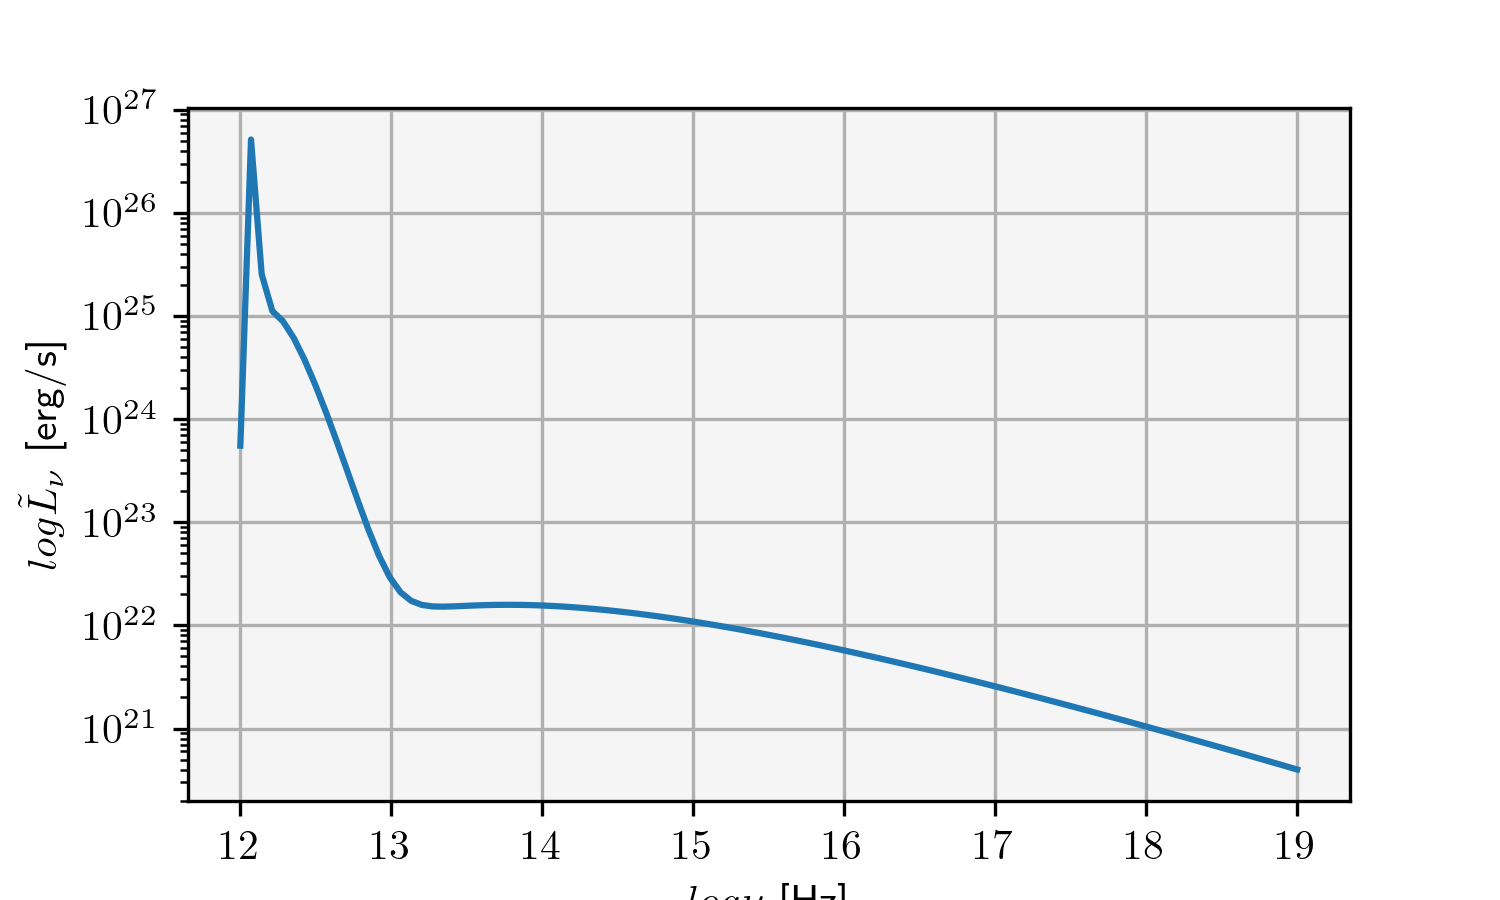
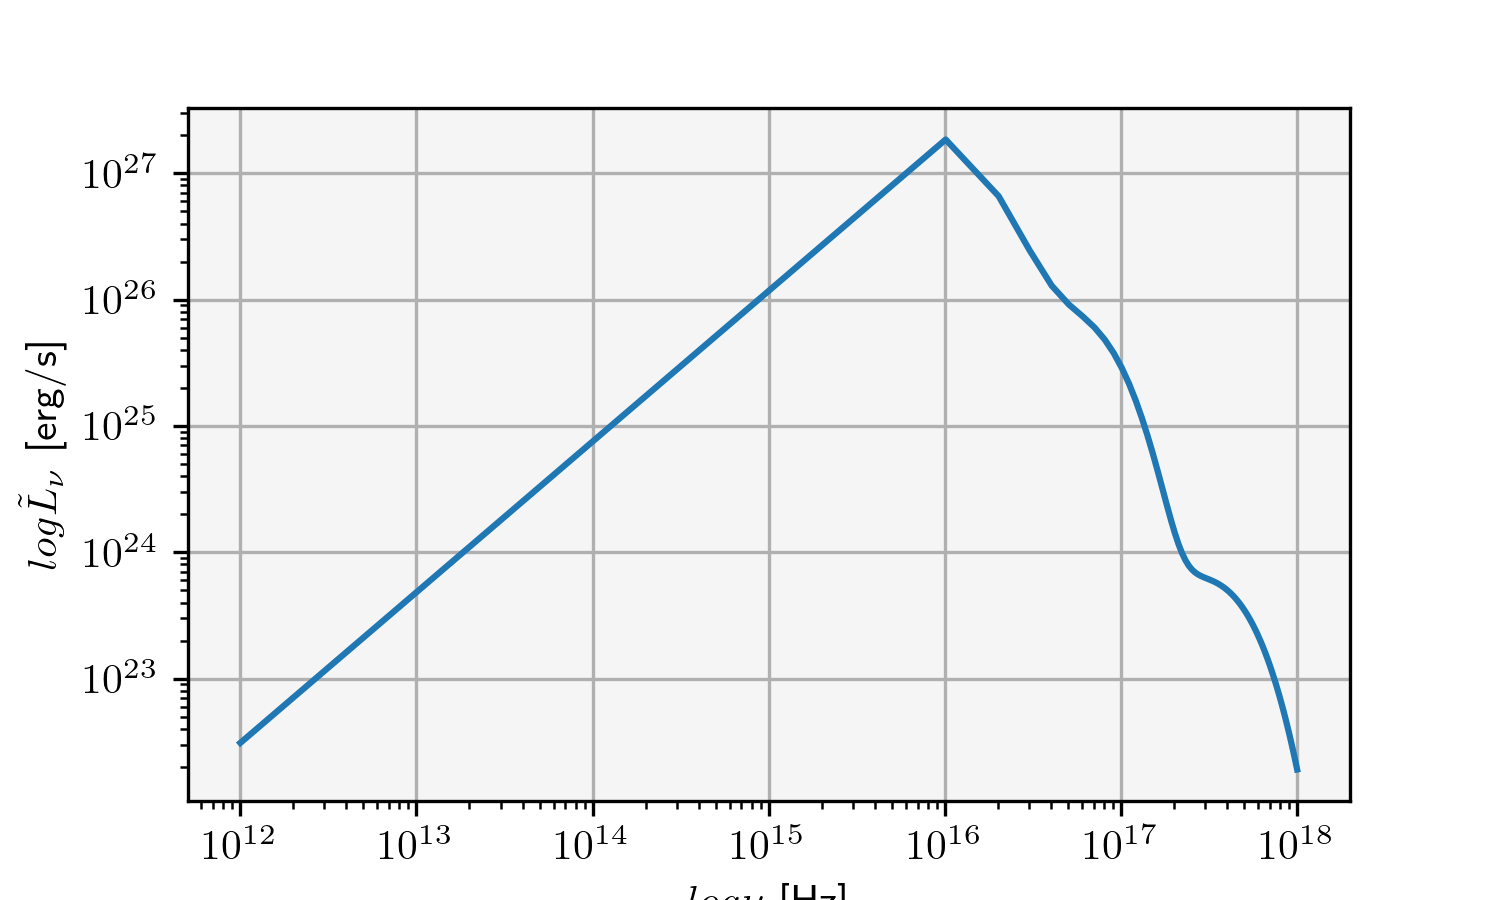
step1

diff --git a/PAOLA_luminosityBB.py b/PAOLA_luminosityBB.py
@@ -36,7 +36,7 @@ Rsol_to_cm = 6.957e10
 
 # Frequencies [Hz]
 n_min = 1e12 
-n_max = 1e19
+n_max = 1e18
 n_spacing = 100
 n_array = np.linspace(n_min, n_max, num = n_spacing)
 n_logspace = np.linspace(np.log10(n_min), np.log10(n_max), num = n_spacing)
@@ -72,22 +72,21 @@ def find_peak(Temperature):
 def planck_fun_n_cell(Temperature: float, n: float) -> float:
     """ Planck function in a cell. """
     const = 2*h/c**2
-    # peak = find_peak(Temperature)
-    # if n> 20*peak:
-    #     fun = 0
-    # else:
     fun = const * n**3 / (np.exp(h*n/(Kb*Temperature))-1)
     return fun
 
+# plt.plot(n_array, planck_fun_n_cell(1e6, n_array))
+# plt.loglog()
+# plt.show()
+
 def planck_fun_cell(Temperature: float) -> float:
     """
-    Bolometric planck function in a cell. 
-    Integrates, so set integrate = True, just saying.
+    Bolometric planck function in a cell: B(T)
     """
     n_Bn_array = []
     peak = find_peak(Temperature)
     
-    for n in np.linspace(n_min, peak, 100):
+    for n in np.linspace(n_min, peak, n_spacing):
     # for n in n_array:
         n_Bn = n * planck_fun_n_cell(Temperature, n)
         n_Bn_array.append(n_Bn)
@@ -198,13 +197,13 @@ if __name__ == "__main__":
     # finished()
     #%% Plotting
     fig, ax = plt.subplots()
-    ax.plot(n_logspace, lum_tilde_n)
+    ax.plot(n_array, lum_tilde_n)
     plt.xlabel(r'$log\nu$ [Hz]')
     #plt.ylim(1e38, 1e43)
-    plt.yscale('log')
+    plt.loglog()
     plt.ylabel(r'$log\tilde{L}_\nu$ [erg/s]')
     plt.grid()
-    plt.text(14, 1e39, r'$t/t_{fb}:$ ' + f'{days4[fix_index]}\n B: {check}')
+    plt.text(1e14, 1e39, r'$t/t_{fb}:$ ' + f'{days4[fix_index]}\n B: {check}')
     plt.savefig('Ltilda_m' + str(m) + '_snap' + str(fixes4[fix_index]))
     plt.show()
     ax.axvline(15, color = 'tab:orange')
@@ -212,12 +211,7 @@ if __name__ == "__main__":
     ax.axvspan(15, 17, alpha=0.5, color = 'tab:orange')
 
 
-
-
-
-# %%
-plt.figure()
-plt.plot(n_logspace, n_array * lum_tilde_n)
-plt.show()
-
-# %%
+    plt.figure()
+    plt.plot(n_array, n_array * lum_tilde_n)
+    np.loglog()
+    plt.show()
